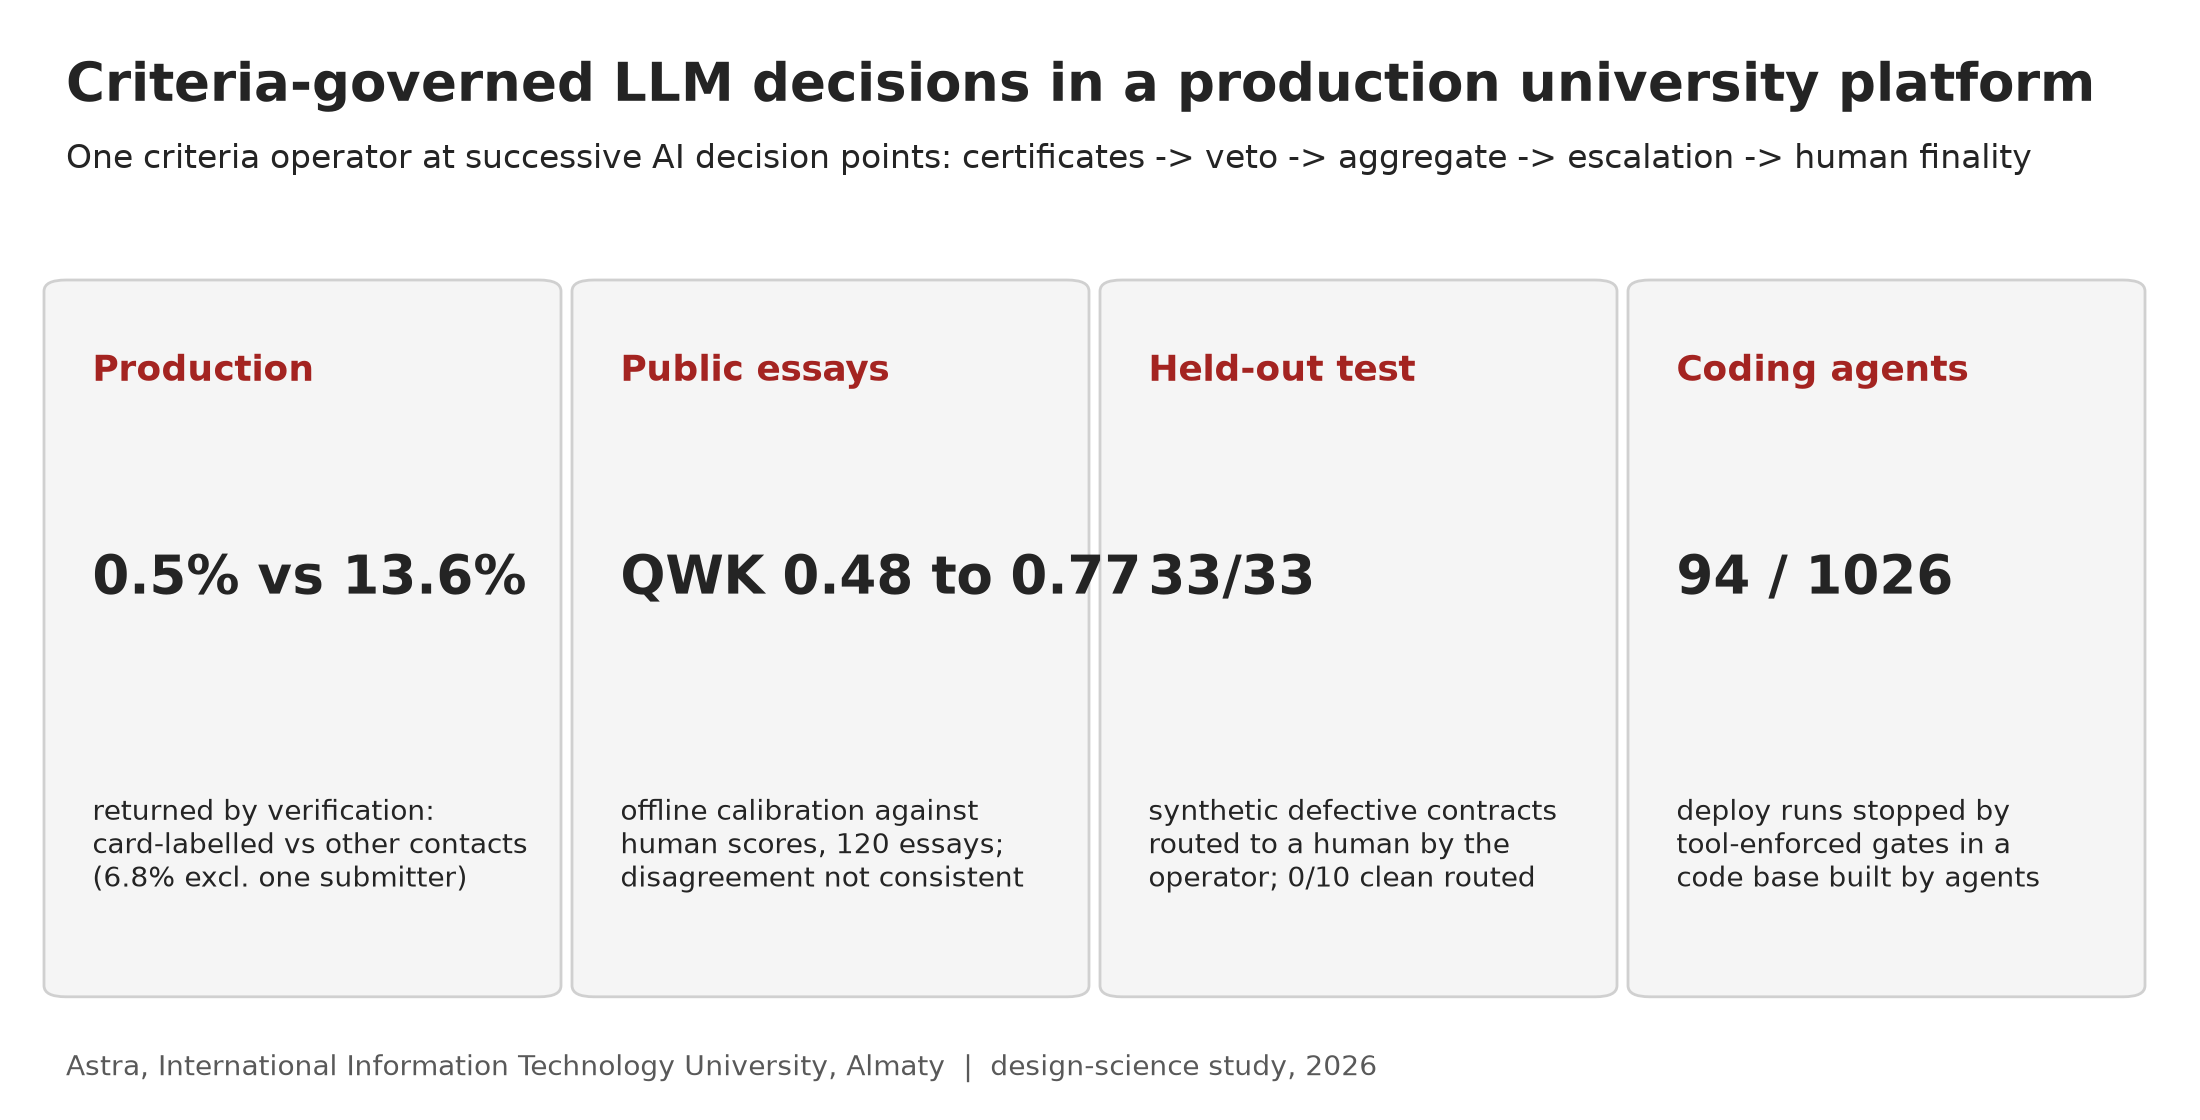
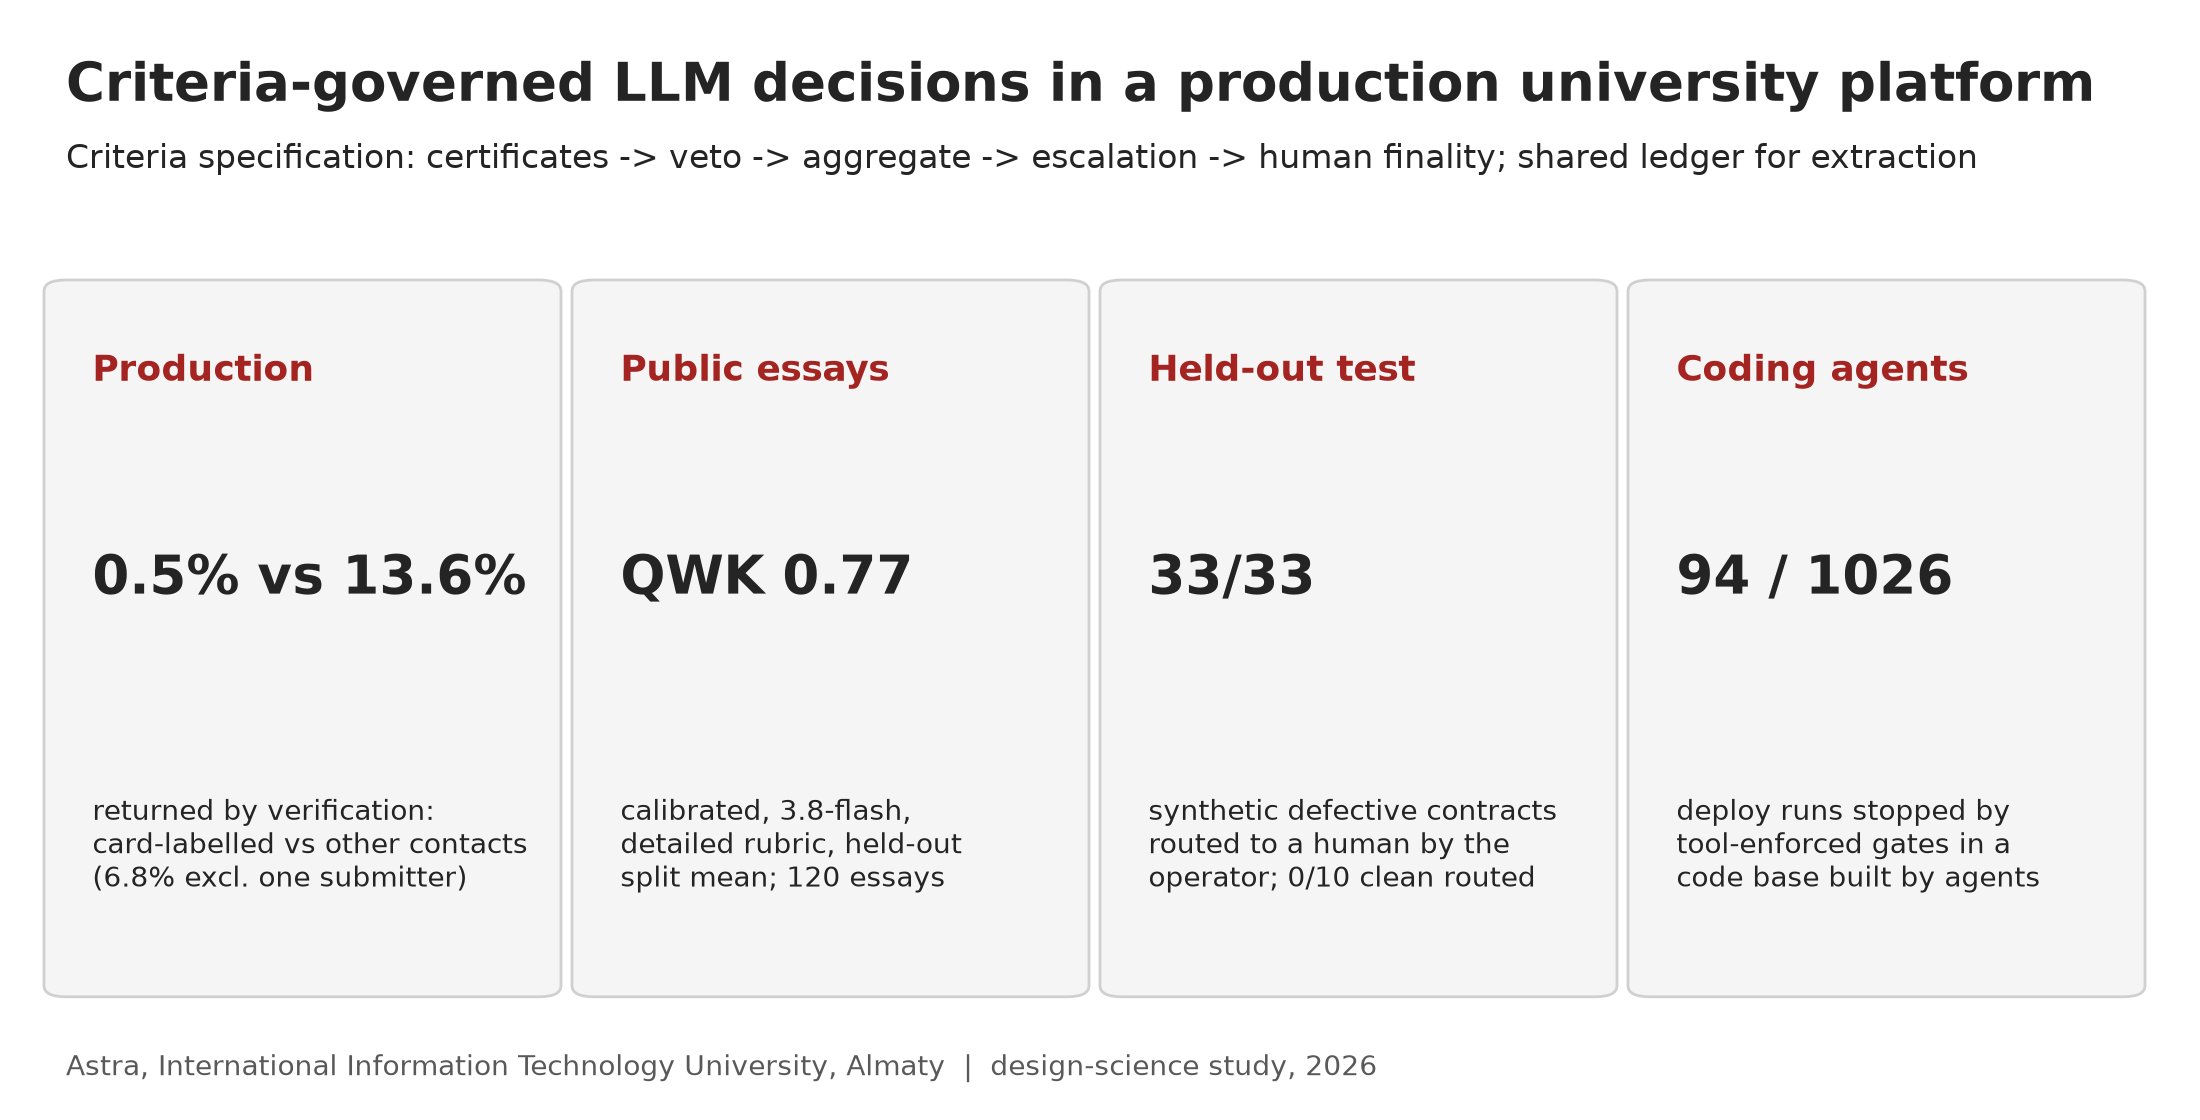
Matched before/after calibration analysis, corrected graphical abstract

Changed region(s): [[0.0309, 0.125, 0.9273, 0.1562], [0.2782, 0.7188, 0.4636, 0.8125], [0.3709, 0.4688, 0.5255, 0.5312]]

diff --git a/experiments/ellipse/matched_signals.py b/experiments/ellipse/matched_signals.py
@@ -1,0 +1,45 @@
+# Round-7 matched before/after analysis (27.10.2026): on the SAME held-out folds (200 partitions x 2 = 400 fold evaluations),
+# the SAME three signals, the SAME 20% budget, the SAME random tie-breaks and the SAME error threshold (>= 0.5), compare
+#   raw:        prediction = clip(round_half(mean C), 1, 5)
+#   calibrated: prediction = clip(round_half(a + b * mean C), 1, 5), OLS fitted on the calibration half.
+# Per fold: capture - random expectation for each target; paired difference (calibrated - raw) of that advantage.
+# Reported: means and 2.5-97.5 percentiles over folds (split variability, not confidence intervals) and share of folds > 0.
+# usage: python matched_signals.py jobs.json ellipse_flashlite.jsonl ellipse_flash38.jsonl
+import json, sys, numpy as np
+JOBS, F1, F2 = sys.argv[1:4]
+gold = json.load(open(JOBS, encoding="utf-8"))["gold"]; ids = sorted(gold); H = np.array([gold[i]["Overall"] for i in ids])
+def load(f):
+    d = {}
+    for l in open(f, encoding="utf-8"):
+        r = json.loads(l)
+        if "out" in r and isinstance(r["out"].get("overall"), (int, float)): d.setdefault((r["id"], r["cfg"]), []).append(r["out"]["overall"])
+    return d
+D = {"flashlite": load(F1), "flash38": load(F2)}
+cm = lambda d, c: np.array([np.mean(d[(i, c)]) if d.get((i, c)) else np.nan for i in ids])
+rh = lambda v: np.clip(np.round(v * 2) / 2, 1, 5)
+rng = np.random.default_rng(727); out = {"threshold": 0.5, "budget": 0.2, "fold_evaluations": 400}
+for name, d in D.items():
+    other = D["flash38" if name == "flashlite" else "flashlite"]; x = cm(d, "C")
+    sig = {"repeat": np.array([np.ptp(d[(i, "C")]) if len(d.get((i, "C"), [])) > 1 else np.nan for i in ids]),
+           "between": np.nanstd(np.vstack([cm(d, c) for c in "ABC"]), axis=0), "cross": np.abs(x - cm(other, "C"))}
+    ok = np.where(~np.isnan(x) & ~np.isnan(sig["repeat"]) & ~np.isnan(sig["between"]) & ~np.isnan(sig["cross"]))[0]
+    acc = {k: {"raw": [], "cal": [], "delta": []} for k in sig}; nl = {"raw": [], "cal": []}; sizes = []
+    for _ in range(200):
+        idx = rng.permutation(ok); h = len(idx) // 2
+        for cal, tst in ((idx[:h], idx[h:]), (idx[h:], idx[:h])):
+            b, a = np.polyfit(x[cal], H[cal], 1); sizes.append(len(tst))
+            T = {"raw": np.abs(rh(x[tst]) - H[tst]) >= 0.5, "cal": np.abs(rh(a + b * x[tst]) - H[tst]) >= 0.5}
+            for t in T: nl[t].append(int(T[t].sum()))
+            k = max(1, round(0.2 * len(tst)))
+            for sn, s in sig.items():
+                order = np.lexsort((rng.random(len(tst)), -s[tst]))[:k]   # same ranking for both targets
+                adv = {t: T[t][order].sum() - k * T[t].sum() / len(tst) for t in T}
+                acc[sn]["raw"].append(adv["raw"]); acc[sn]["cal"].append(adv["cal"]); acc[sn]["delta"].append(adv["cal"] - adv["raw"])
+    res = {"n": int(len(ok)), "held_out_sizes": sorted(set(sizes)), "large_errors_mean": {t: round(float(np.mean(v)), 2) for t, v in nl.items()}}
+    pct = lambda v: [round(float(np.percentile(v, 2.5)), 2), round(float(np.percentile(v, 97.5)), 2)]
+    for sn, v in acc.items():
+        res[sn] = {t: {"mean_advantage": round(float(np.mean(v[t])), 2), "range": pct(v[t]), "share_folds_gt0": round(float(np.mean(np.array(v[t]) > 0)), 2)} for t in ("raw", "cal", "delta")}
+    out[name] = res
+    print(name, res["n"], res["held_out_sizes"], res["large_errors_mean"])
+    for sn in sig: print("  ", sn, {t: (res[sn][t]["mean_advantage"], res[sn][t]["range"], res[sn][t]["share_folds_gt0"]) for t in ("raw", "cal", "delta")})
+json.dump(out, open("matched_signals_results.json", "w"), indent=1)

diff --git a/figures/src/figs.py b/figures/src/figs.py
@@ -122,11 +122,11 @@ fig.savefig(f"{OUT}/Figure5_gates.png", dpi=600, bbox_inches="tight"); plt.close
 fig = plt.figure(figsize=(11, 5.6), dpi=200); ax = fig.add_axes([0, 0, 1, 1])
 ax.set_xlim(0, 1); ax.set_ylim(0, 1); ax.axis("off")
 ax.text(0.03, 0.91, "Criteria-governed LLM decisions in a production university platform", fontsize=19, weight="bold", color=DARK)
-ax.text(0.03, 0.85, "One criteria operator at successive AI decision points: certificates -> veto -> aggregate -> escalation -> human finality",
+ax.text(0.03, 0.85, "Criteria specification: certificates -> veto -> aggregate -> escalation -> human finality; shared ledger for extraction",
         fontsize=12, color=DARK)
 cols = [("Production", f"{100 * 1 / 191:.1f}% vs {100 * 187 / 1377:.1f}%",
          "returned by verification:\ncard-labelled vs other contacts\n(6.8% excl. one submitter)"),
-        ("Public essays", "QWK 0.48 to 0.77", "offline calibration against\nhuman scores, 120 essays;\ndisagreement not consistent"),
+        ("Public essays", "QWK 0.77", "calibrated, 3.8-flash,\ndetailed rubric, held-out\nsplit mean; 120 essays"),
         ("Held-out test", "33/33",
          "synthetic defective contracts\nrouted to a human by the\noperator; 0/10 clean routed"),
         ("Coding agents", "94 / 1026", "deploy runs stopped by\ntool-enforced gates in a\ncode base built by agents")]

diff --git a/README.md b/README.md
@@ -17,7 +17,7 @@ International Information Technology University, Almaty) is not published. No pe
 | `experiments/ellipse/` | public ELLIPSE benchmark: essay ids and human scores (`jobs_ids_scores.json`, no essay texts), per-call model outputs (`ellipse_*.jsonl`), analysis scripts and their outputs |
 | `results/` | per-document outputs of the contract and card development runs and repeated runs; `astra_evolution_20261026.md` (repository and deploy aggregates) |
 | `figures/` | Figures 1–5 and the graphical abstract; generator in `figures/src/figs.py` |
-| `context_facts_2710.md` | SQL and results for every contextual number in the paper and the call-by-call reconciliation (2716 calls) |
+| `context_facts_2710.md` | SQL and results for every contextual number in the paper and an experiment-level reconciliation of metered call counts (2716 calls) |
 | `MANIFEST.json` | SHA-256, size and record count of every file in this repository (`build_repo_manifest.py`) |
 
 ## Reproduce
@@ -29,7 +29,7 @@ python analyse.py jobs_ids_scores.json ellipsis_raw_rater_scores_anon_all_essay.
 python calibrate.py jobs_ids_scores.json ellipse_flashlite.jsonl flashlite     # Table 8 calibrated columns
 python human_compare.py jobs_ids_scores.json ellipsis_raw_rater_scores_anon_all_essay.csv ellipse_flashlite.jsonl flashlite
 python uncertainty_signals.py jobs_ids_scores.json ellipse_flashlite.jsonl ellipse_flash38.jsonl   # Table 9
-python calibrated_signals.py  jobs_ids_scores.json ellipse_flashlite.jsonl ellipse_flash38.jsonl   # post-calibration signals
+python matched_signals.py    jobs_ids_scores.json ellipse_flashlite.jsonl ellipse_flash38.jsonl   # matched before/after calibration
 python cross_model.py         jobs_ids_scores.json ellipse_flashlite.jsonl ellipse_flash38.jsonl   # ensemble
 ```
 (repeat the first three with `ellipse_flash38.jsonl flash38`). Contract and card counts are recomputed from the per-call JSON files (`holdout_an.py`, `stability.py`). Results of LLM calls are not exactly reproducible across model versions; every output used in the paper is stored here.
